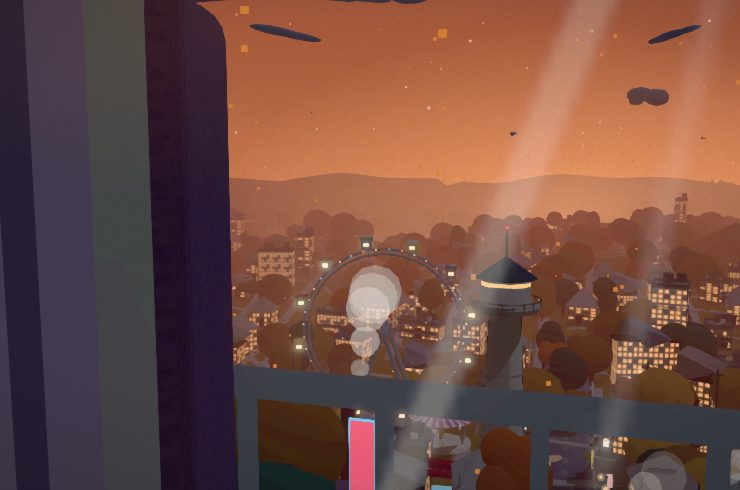
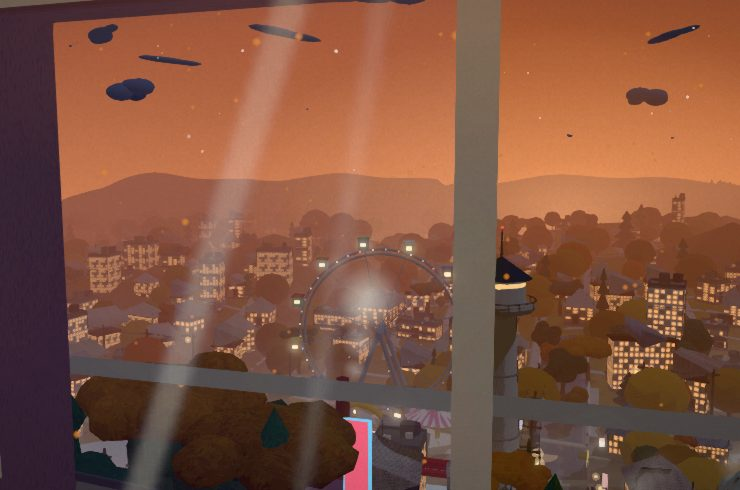
便15 群E: 起動時の情景で季節を先に（D1）・角部屋を回したら最初の向きを決め直す（D4・V32・S53）・錠を手すりと重ならない高さへ（V10・V17）・降る物を丸い粒へ（W2）・雪の茅葺に雪（V20）・左右の長押を壁の内側の間に（V25）・朝はビルの窓を灯さない（V29）・雨の日は太陽を雲の奥へ（V39）・海辺の夕日を桟から外す（V58）・かもめが桟にかからない（V61）・山あいの円盤に筋を重ねない（V63）・入口の四辺の縁（V79）・角部屋のサムネを撮り直し撮り直しの台本を1本に（V70・W7）・README と SPEC（S55）
Claude-Session: https://claude.ai/code/session_018BTSXAPzxNmSbLEgZTJxEv

diff --git a/src/engine/town3dViewer.js b/src/engine/town3dViewer.js
@@ -362,6 +362,7 @@ export async function mountTown3d(parent, opts = {}) {
   const pal = opts.palette || {}
   const season = opts.season || 'summer' // 季節で地面・木の色を替える
   const weather = opts.weather || null    // 'snow' | 'petals' | 'leaves' | null（降るもの）
+  const MORNING = opts.time === 'morning' // 情景の時間帯が朝（便15 V29: 朝は窓の灯りを消す。空の明るさだけでは朝の淡い空が夕と同じに読まれた）
   const kind = opts.kind || 'town'        // 'town'（坂の街）| 'yato'（谷戸＝棚田と茅葺の屋敷）
   const bound = kind === 'yato' ? FLY.yatoBound : FLY.bound // 飛べる箱は情景ごと（谷戸は谷筋に沿う狭め）
   const onEvent = typeof opts.onEvent === 'function' ? opts.onEvent : () => {} // 定期イベント発火を外へ伝える（音の結線）
@@ -529,8 +530,9 @@ export async function mountTown3d(parent, opts = {}) {
     sgr.addColorStop(0.47, 'rgba(176,198,255,0.10)'); sgr.addColorStop(0.53, 'rgba(188,236,200,0.11)') // 彩雲リング（青→緑）
     sgr.addColorStop(0.59, 'rgba(255,226,168,0.12)'); sgr.addColorStop(0.65, 'rgba(255,184,172,0.10)') // 黄→赤
     sgr.addColorStop(0.76, 'rgba(255,184,172,0)'); sgx.fillStyle = sgr; sgx.fillRect(0, 0, 128, 128)
-    sunGlow = new THREE.Sprite(new THREE.SpriteMaterial({ map: new THREE.CanvasTexture(scv), transparent: true, opacity: weather === 'snow' ? 0.2 : 0.92, depthWrite: false, fog: false })) // 雪は窓ごしに白飛びしやすい＝光輪を弱め小さく（暖かいにじみは残す）
-    { const sgS = weather === 'snow' ? 124 : 155; sunGlow.scale.set(sgS, sgS, 1); scene.add(sunGlow) }
+    const overcast = weather === 'snow' || weather === 'rain' // 便15 V39: 雨の日も雪と同じく、太陽は雲の奥（光輪を弱く小さく・雨は円盤を出さない＝下）
+    sunGlow = new THREE.Sprite(new THREE.SpriteMaterial({ map: new THREE.CanvasTexture(scv), transparent: true, opacity: overcast ? 0.2 : 0.92, depthWrite: false, fog: false })) // 雪は窓ごしに白飛びしやすい＝光輪を弱め小さく（暖かいにじみは残す）
+    { const sgS = overcast ? 124 : 155; sunGlow.scale.set(sgS, sgS, 1); scene.add(sunGlow) }
     // 太陽の本体（円盤）は duskAmt 定義後（L667付近）でまとめて作る＝TDZ回避。下の「太陽の本体」ブロック参照。
     // 一番星のスプライト（昼ドリフトが深まると上空にひとつ灯る）。夜情景では既存の星空があるので作らない。
     if (!isNight) { const stc = document.createElement('canvas'); stc.width = stc.height = 32; const stx = stc.getContext('2d'); const stg = stx.createRadialGradient(16, 16, 0.4, 16, 16, 10); stg.addColorStop(0, 'rgba(255,255,250,1)'); stg.addColorStop(0.3, 'rgba(232,240,255,0.45)'); stg.addColorStop(1, 'rgba(232,240,255,0)'); stx.fillStyle = stg; stx.fillRect(0, 0, 32, 32)
@@ -693,6 +695,7 @@ export async function mountTown3d(parent, opts = {}) {
   // 灯り度（空の明るさで決める。明るい昼=窓は灯らない／夕暮れ=ほのか／夜=煌々と）
   const skyBright = (skyTop.r + skyTop.g + skyTop.b) / 3
   const duskAmt = Math.min(1, Math.max(0, (0.56 - skyBright) * 2.4))
+  const winLitDusk = duskAmt > 0.25 && !MORNING // 夕方の窓の灯り（便15 V29: 朝は灯さない＝便1 の「昼は窓の灯りを消す」と同じ扱い）
   // 太陽の本体＝くっきりした円盤（空の主役）。加算で芯が明るく、Bloomで発光する。夕は橙金に大きく（地平に近い夕陽）。
   // 光輪 sunGlow は上で作成済み。ここで夕の暖色・拡大を足し、本体の円盤を中心に重ねる（duskAmt 定義後＝TDZ回避）。
   if (!isNight && sunGlow) {
@@ -703,6 +706,7 @@ export async function mountTown3d(parent, opts = {}) {
     const diskCol = new THREE.Color(0xfffaf0).lerp(new THREE.Color(0xffaa55), duskAmt) // 夕は橙金へ
     sunDisk = new THREE.Sprite(new THREE.SpriteMaterial({ map: new THREE.CanvasTexture(dcv), color: diskCol, transparent: true, opacity: weather === 'snow' ? 0.28 : 0.95, depthWrite: false, fog: false, blending: THREE.AdditiveBlending })) // 雪の日は雲の奥の淡い円盤（白飛びさせない・V10）
     const dS = (weather === 'snow' ? 15 : 19) + duskAmt * 17; sunDisk.scale.set(dS, dS, 1); scene.add(sunDisk)
+    if (weather === 'rain') sunDisk.visible = false // 便15 V39: 雨の日は太陽の円盤を出さない（雨の筋と晴れの太陽が同時に出ていた）
   }
   const rng = (seed) => { let s = seed * 9301 + 49297; const f = () => { s = (s * 9301 + 49297) % 233280; return s / 233280 }; f.state = () => s; return f }
   let R = rng(7) // 町の乱数。消費の順番が町の配置を決める（家・木・人）。一時的な差し替えは下の withLocalR だけで行う
@@ -1239,7 +1243,7 @@ export async function mountTown3d(parent, opts = {}) {
     for (let i = 0; i <= 5; i++) { g.beginPath(); g.moveTo(wx, wy + wh * i / 5); g.lineTo(wx + ww, wy + wh * i / 5); g.stroke() }
     const t = new THREE.CanvasTexture(c); t.magFilter = THREE.LinearFilter; t.wrapS = t.wrapT = THREE.RepeatWrapping; machiyaGlowTex = t; return t }
   // 町家の壁材（夕夜は障子が行灯で灯る＝城下町の夜が生きる）。
-  const machiyaMat = (baseHex) => { const m = facadeMat('machiya', baseHex); if (duskAmt > 0.25) { m.emissiveMap = getMachiyaGlow(); m.emissive = new THREE.Color(isNight ? 0xffb45a : 0xffc684); m.emissiveIntensity = 0.22 + duskAmt * (isNight ? 0.6 : 0.34) } return m }
+  const machiyaMat = (baseHex) => { const m = facadeMat('machiya', baseHex); if (winLitDusk) { m.emissiveMap = getMachiyaGlow(); m.emissive = new THREE.Color(isNight ? 0xffb45a : 0xffc684); m.emissiveIntensity = 0.22 + duskAmt * (isNight ? 0.6 : 0.34) } return m }
   // 侍屋敷の連子窓の夜の灯り（格子の奥の行灯）。連子の面を暖色＋縦格子を影で抜く emissiveMap。R()不使用。
   let samaGlowTex = null
   const getSamaGlow = () => { if (samaGlowTex) return samaGlowTex
@@ -1249,7 +1253,7 @@ export async function mountTown3d(parent, opts = {}) {
     g.strokeStyle = 'rgba(40,26,10,0.7)'; g.lineWidth = 2.4
     for (let i = 0; i <= 8; i++) { g.beginPath(); g.moveTo(30 + 68 * i / 8, 28); g.lineTo(30 + 68 * i / 8, 68); g.stroke() } // 縦格子の影
     const t = new THREE.CanvasTexture(c); t.magFilter = THREE.LinearFilter; t.wrapS = t.wrapT = THREE.RepeatWrapping; samaGlowTex = t; return t }
-  const samaMat = (baseHex) => { const m = facadeMat('sama', baseHex); if (duskAmt > 0.25) { m.emissiveMap = getSamaGlow(); m.emissive = new THREE.Color(isNight ? 0xffac52 : 0xffc079); m.emissiveIntensity = 0.2 + duskAmt * (isNight ? 0.56 : 0.3) } return m }
+  const samaMat = (baseHex) => { const m = facadeMat('sama', baseHex); if (winLitDusk) { m.emissiveMap = getSamaGlow(); m.emissive = new THREE.Color(isNight ? 0xffac52 : 0xffc079); m.emissiveIntensity = 0.2 + duskAmt * (isNight ? 0.56 : 0.3) } return m }
   // 大正の洋風窓の夜の灯り（上げ下げ窓＋1階の店の硝子が灯る＝ハイカラな港町の夜景）。R()不使用。
   let yofuGlowTex = null
   const getYofuGlow = () => { if (yofuGlowTex) return yofuGlowTex
@@ -1934,7 +1938,7 @@ export async function mountTown3d(parent, opts = {}) {
     if (duskAmt > 0.12) { // 夕方は窓が灯る（昼と同じ窓割りの灯り＝wviで揃える）
       R() // 旧来ここで窓種をR()で選んでいた＝乱数列を保ち街の生成（建物分布/描画コール）を不変に保つ
       const e = winEmis[wvi].clone(); e.repeat.set(rep, repV); e.needsUpdate = true
-      wm.emissiveMap = e; wm.emissive = new THREE.Color(isNight ? 0xffbe82 : 0xffcaa0); wm.emissiveIntensity = (isNight || duskAmt > 0.25) ? 0.3 + duskAmt * (isNight ? 0.95 : 0.62) : 0 // 昼は灯さない（はっきりした夕方と夜だけ。昼の情景の夕方の度合いは約0.15。以前は昼も 0.3 で、ビルも家も窓が全部だいだいに灯っていた・V15） // 夜は窓灯りを強めて瞬かせる（夕は控えめで貼り絵感を防ぐ）
+      wm.emissiveMap = e; wm.emissive = new THREE.Color(isNight ? 0xffbe82 : 0xffcaa0); wm.emissiveIntensity = (isNight || winLitDusk) ? 0.3 + duskAmt * (isNight ? 0.95 : 0.62) : 0 // 昼は灯さない（はっきりした夕方と夜だけ。昼の情景の夕方の度合いは約0.15。以前は昼も 0.3 で、ビルも家も窓が全部だいだいに灯っていた・V15） // 夜は窓灯りを強めて瞬かせる（夕は控えめで貼り絵感を防ぐ）
     }
     // 近景の建物だけ角を面取りして「低ポリの箱」の鋭い角を脱す（奥は霞むので箱のまま＝軽量）。
     const near = z > -12
@@ -3084,7 +3088,7 @@ export async function mountTown3d(parent, opts = {}) {
     const nm = winMapBase.clone(); nm.repeat.set(rep, rep * 1.5); nm.needsUpdate = true; nwMat.map = nm
     if (duskAmt > 0.12) { // 夕/夜は隣室の窓も灯る（窓割りはwinMapBase=種類0に揃える）
       const ne = winEmis[0].clone(); ne.repeat.set(rep, rep * 1.5); ne.needsUpdate = true
-      nwMat.emissiveMap = ne; nwMat.emissive = new THREE.Color(0xffcaa0); nwMat.emissiveIntensity = (isNight || duskAmt > 0.25) ? 0.3 + duskAmt * 0.6 : 0 // 昼は灯さない（V15）
+      nwMat.emissiveMap = ne; nwMat.emissive = new THREE.Color(0xffcaa0); nwMat.emissiveIntensity = (isNight || winLitDusk) ? 0.3 + duskAmt * 0.6 : 0 // 昼は灯さない（V15）
     }
     const wall = new THREE.Mesh(new THREE.BoxGeometry(3.5, 58, 44), nwMat)
     wall.position.set(15.5, 18, 9); wall.castShadow = true; wall.receiveShadow = true; scene.add(wall)
@@ -4665,7 +4669,7 @@ export async function mountTown3d(parent, opts = {}) {
         // 港町の家々（看板建築＝和洋折衷。煉瓦/クリームの壁＋陸屋根/寄棟。格子の町割り。メッシュ統合で軽く）
         // 壁色のパレット（大正ハイカラ＝クリーム/淡い若草/淡い黄土/淡い青鼠）。建物ごとに振り分けて単調なクリーム一色を脱す。
         const tWallPal = season === 'winter' ? [0xd8d2c4, 0xd2d6cc, 0xdcd4c0, 0xcdd2d4] : [0xcfc3ab, 0xb9c0a6, 0xd6c49a, 0xb7c1c4]
-        const tWallMats = tWallPal.map((c) => { const m = facadeMat('yofu', c); m.vertexColors = true; if (duskAmt > 0.25) { m.emissiveMap = getYofuGlow(); m.emissive = new THREE.Color(isNight ? 0xffc878 : 0xffd49a); m.emissiveIntensity = 0.2 + duskAmt * (isNight ? 0.58 : 0.32) } return m }) // 接地AO（頂点色）＋夕夜は洋風窓が灯る
+        const tWallMats = tWallPal.map((c) => { const m = facadeMat('yofu', c); m.vertexColors = true; if (winLitDusk) { m.emissiveMap = getYofuGlow(); m.emissive = new THREE.Color(isNight ? 0xffc878 : 0xffd49a); m.emissiveIntensity = 0.2 + duskAmt * (isNight ? 0.58 : 0.32) } return m }) // 接地AO（頂点色）＋夕夜は洋風窓が灯る
         // 屋根色のパレット（瓦の赤茶/いぶし茶/スレート青鼠）。俯瞰で一色だった屋根に多様さを。
         const tRoofPal = isNight ? [0x4a3832, 0x423a32, 0x3e444a] : [0x9a5642, 0x6e5a48, 0x5d666e]
         const tRoofMats = tRoofPal.map((c, i) => i < 2 ? tileMat(c, 2, 2, true) : mottleMat(c, 150, 0.12, [1.8, 1.8])) // 瓦色(赤茶/いぶし)は瓦テクスチャ＝見上げで瓦の筋が出る／青鼠スレートは平滑なまま
@@ -5425,7 +5429,7 @@ export async function mountTown3d(parent, opts = {}) {
       for (let i = 0; i < 120; i++) { const col = tb.clone().offsetHSL((R() - 0.5) * 0.02, (R() - 0.5) * 0.06, (R() - 0.5) * 0.26); tcx.strokeStyle = '#' + col.getHexString(); tcx.lineWidth = 0.5 + R() * 1.3; tcx.globalAlpha = 0.42; const lx = R() * 64; tcx.beginPath(); tcx.moveTo(lx, 0); tcx.lineTo(lx + (R() - 0.5) * 4, 64); tcx.stroke() }
       tcx.globalAlpha = 1
       const thatchTex = new THREE.CanvasTexture(tc); thatchTex.wrapS = thatchTex.wrapT = THREE.RepeatWrapping; thatchTex.repeat.set(3, 2)
-      const thatchMat = new THREE.MeshLambertMaterial({ color: 0xffffff, map: thatchTex, vertexColors: true })
+      const thatchMat = snowify(new THREE.MeshLambertMaterial({ color: 0xffffff, map: thatchTex, vertexColors: true })) // 便15 V20: 雪の日は茅葺の上面にも雪が載る（周りが雪なのに屋根だけ茶色のままだった）
       // 茅葺の寄棟屋根: 水平の大棟＋四方の勾配＋深い軒。四角錐の「段ボール箱」を本物の寄棟へ作り直す（評価指摘）。
       const roof = new THREE.Mesh(makeHipRoof(10.8, 8.2, 5.6, 3.5), thatchMat)
       roof.position.y = 2.7; roof.castShadow = true; roof.receiveShadow = true; g.add(roof) // 軒を壁の上端(3.2)より下げ＝深い軒の量感
@@ -7340,6 +7344,10 @@ export async function mountTown3d(parent, opts = {}) {
   } // ← 車・住民（街のみ）ここまで
 
   // ── 降るもの（雪／桜の花びら）。季節・天気で空に舞う粒子。 ──
+  // 便15 W2（V14・V21）: 降る物の粒は、ふちのぼけた丸い絵で描く（絵の無い点は四角い板になり、ドット絵の雪や花びらに見えた）。
+  // 縁がぼける分だけ見かけが小さくなるので、大きさを 1.3 倍にして前の見え方に寄せる
+  const fallDot = (() => { const c = document.createElement('canvas'); c.width = c.height = 32; const g = c.getContext('2d'); const gr = g.createRadialGradient(16, 16, 0, 16, 16, 16); gr.addColorStop(0, 'rgba(255,255,255,1)'); gr.addColorStop(0.5, 'rgba(255,255,255,0.8)'); gr.addColorStop(1, 'rgba(255,255,255,0)'); g.fillStyle = gr; g.fillRect(0, 0, 32, 32); return new THREE.CanvasTexture(c) })()
+  const FALL_K = 1.3
   let weatherPts = null
   if (weather === 'snow' || weather === 'petals' || weather === 'leaves') {
     const N = weather === 'snow' ? 700 : weather === 'petals' ? 420 : 360 // 軽やかでは半分だけ描く（下の lightDraw）
@@ -7357,8 +7365,9 @@ export async function mountTown3d(parent, opts = {}) {
     const geo = new THREE.BufferGeometry()
     geo.setAttribute('position', new THREE.BufferAttribute(pos, 3)); lightDraw(geo, N >> 1)
     const mat = new THREE.PointsMaterial({
+      map: fallDot,
       color: weather === 'snow' ? 0xfdfdff : weather === 'petals' ? 0xf2bcd0 : 0xcf7e38, // 落ち葉=暖色の橙
-      size: weather === 'snow' ? 0.5 : weather === 'petals' ? 0.85 : 0.95,
+      size: (weather === 'snow' ? 0.5 : weather === 'petals' ? 0.85 : 0.95) * FALL_K,
       transparent: true, opacity: weather === 'snow' ? 0.92 : 0.85,
       sizeAttenuation: true, fog: true, depthWrite: false,
     })
@@ -7376,7 +7385,7 @@ export async function mountTown3d(parent, opts = {}) {
     const pos = new Float32Array(N * 3), spd = new Float32Array(N), phs = new Float32Array(N)
     for (let i = 0; i < N; i++) { pos[i * 3] = bx + (R() - 0.5) * R0 * 2; pos[i * 3 + 1] = floor + R() * 20; pos[i * 3 + 2] = bz + (R() - 0.5) * R0 * 2; spd[i] = 0.7 + R() * 0.9; phs[i] = R() * 6.28 }
     const geo = new THREE.BufferGeometry(); geo.setAttribute('position', new THREE.BufferAttribute(pos, 3)); lightDraw(geo, 70)
-    const mat = new THREE.PointsMaterial({ color: season === 'spring' ? 0xf2bcd0 : 0xd07e2a, size: season === 'spring' ? 0.8 : 0.92, transparent: true, opacity: 0.92, sizeAttenuation: true, fog: true, depthWrite: false })
+    const mat = new THREE.PointsMaterial({ map: fallDot, color: season === 'spring' ? 0xf2bcd0 : 0xd07e2a, size: (season === 'spring' ? 0.8 : 0.92) * FALL_K, transparent: true, opacity: 0.92, sizeAttenuation: true, fog: true, depthWrite: false })
     const pts = new THREE.Points(geo, mat); pts.frustumCulled = false; scene.add(pts)
     seasonFall = { pts, pos, spd, phs, N, bx, bz, R0, floor, swirl: season === 'spring' ? 2.2 : 2.8 }
     // 歩く人に追従する近景の層（カメラ周りの箱で循環。降り立つとどこでも花びら/落ち葉が舞う＝散歩の没入）。
@@ -7384,7 +7393,7 @@ export async function mountTown3d(parent, opts = {}) {
     const npos = new Float32Array(nN * 3), nspd = new Float32Array(nN), nphs = new Float32Array(nN)
     for (let i = 0; i < nN; i++) { npos[i * 3] = (R() - 0.5) * nHX * 2; npos[i * 3 + 1] = R() * nHY; npos[i * 3 + 2] = (R() - 0.5) * nHX * 2; nspd[i] = 0.55 + R() * 0.8; nphs[i] = R() * 6.28 }
     const ngeo = new THREE.BufferGeometry(); ngeo.setAttribute('position', new THREE.BufferAttribute(npos, 3)); lightDraw(ngeo, 34)
-    const nmat = new THREE.PointsMaterial({ color: season === 'spring' ? 0xf4c2d6 : 0xd8813a, size: season === 'spring' ? 0.5 : 0.58, transparent: true, opacity: 0, sizeAttenuation: true, fog: true, depthWrite: false })
+    const nmat = new THREE.PointsMaterial({ map: fallDot, color: season === 'spring' ? 0xf4c2d6 : 0xd8813a, size: (season === 'spring' ? 0.5 : 0.58) * FALL_K, transparent: true, opacity: 0, sizeAttenuation: true, fog: true, depthWrite: false })
     const npts = new THREE.Points(ngeo, nmat); npts.frustumCulled = false; npts.visible = false; scene.add(npts)
     nearFall = { pts: npts, mat: nmat, pos: npos, spd: nspd, phs: nphs, N: nN, HX: nHX, HY: nHY, swirl: season === 'spring' ? 2.4 : 3.0 }
   }
@@ -7669,7 +7678,7 @@ export async function mountTown3d(parent, opts = {}) {
     box(owW + 0.2, 0.1, 0.1, 0, oT, 0.25, alMat); box(owW + 0.2, 0.1, 0.1, 0, oB + 0.06, 0.25, alMat)             // 上下の横桟（壁より手前・窓台の上）
     box(0.1, owH + 0.2, 0.1, -owW / 2 - 0.05, WINCY, 0.29, alMat); box(0.1, owH + 0.2, 0.1, owW / 2 + 0.05, WINCY, 0.29, alMat) // 左右の縦桟（さらに手前）
     box(0.06, owH, 0.06, 0, WINCY, 0.32, alMat) // 中央の召し合わせ（最前）
-    const winLock = box(0.14, 0.06, 0.08, 0.1, WINCY - 0.06, 0.31, alMat) // クレセント錠（便13 #2=2: 窓をあけると右の障子と一緒にすべる＝毎こまの所で動かす）
+    const winLock = box(0.14, 0.06, 0.08, 0.1, WINCY - 0.18, 0.31, alMat) // 便15 V10・V17: 錠を 0.12 下げた（外の手すりと画面で同じ高さに重なり、手すりが錠の所で一段太く折れて見えた）。クレセント錠（便13 #2=2: 窓をあけると右の障子と一緒にすべる＝毎こまの所で動かす）
     // 引き違いのガラス障子（2枚）。閉=開口を覆う／窓をあけると右の障子が左へすべって右半分が開く（実際の窓の開閉）。
     // ガラスは“ごく淡い映り込み”だけ（景色を曇らせない）。斜めの細い光の筋を1本＋極薄の地色。端はパネルを枠の内側に隠す。
     const glassTex = cv(64, 64, (x) => { x.fillStyle = 'rgba(210,222,234,0.02)'; x.fillRect(0, 0, 64, 64); x.strokeStyle = 'rgba(255,255,255,0.12)'; x.lineWidth = 3.5; x.beginPath(); x.moveTo(12, 64); x.lineTo(46, 0); x.stroke(); x.strokeStyle = 'rgba(255,255,255,0.06)'; x.lineWidth = 2; x.beginPath(); x.moveTo(40, 64); x.lineTo(56, 0); x.stroke() })
@@ -7751,7 +7760,7 @@ export async function mountTown3d(parent, opts = {}) {
     for (const [px, pz] of [[-SX + 0.11, 0.22], [SX - 0.11, 0.22], [-SX + 0.11, BZ - 0.22], [SX - 0.11, BZ - 0.22]]) box(0.17, WT - FY, 0.17, px, (WT + FY) / 2, pz, postMat) // 四隅の柱
     const ngY = oT + 0.5 // 長押の高さ（窓・鴨居の上）
     box(RW, 0.1, 0.06, 0, ngY, 0.05, postMat); box(RW, 0.1, 0.06, 0, ngY, BZ - 0.05, postMat) // 前後の長押
-    box(0.06, 0.1, RD, -SX + 0.04, ngY, BZ / 2, postMat); box(0.06, 0.1, RD, SX - 0.04, ngY, BZ / 2, postMat) // 左右の長押
+    box(0.06, 0.1, BZ - 0.3, -SX + 0.04, ngY, BZ / 2, postMat); box(0.06, 0.1, BZ - 0.3, SX - 0.04, ngY, BZ / 2, postMat) // 左右の長押（便15 V25: 前後の壁の内側〈z 0.15〜BZ-0.15〉の間だけ。部屋の奥行き RD で作ると前の壁を越えて窓の外へ 0.6 突き出し、角部屋の左の窓の上で柱を越えて見えた）
     // ── 右壁＝居間の顔: ブラウン管テレビ＋木の台＋柱時計＋カレンダー ──
     box(1.5, 0.66, 0.7, SX - 0.42, FY + 0.33, 3.0, woodMat)        // テレビ台
     box(1.04, 0.78, 0.66, SX - 0.5, FY + 1.05, 3.0, tvMat)         // テレビ筐体
@@ -8165,13 +8174,17 @@ export async function mountTown3d(parent, opts = {}) {
   }
   // 便13 #3=1: 角部屋は、開いた最初の向きを左の角へ振る（前は北寺尾の窓辺と同じ正面で、同じ部屋に見えた＝V58）。
   //   横長（PC・iPad の横）は二つの窓が角で並ぶ向き、縦長（iPhone・iPad の縦）は左の窓が正面に来る向き
-  if (kind === 'corner') active.yaw = active.yawTarget = W / H >= 1 ? -0.6 : -1.12
+  const cornerYaw0 = (w, h) => (w / h >= 1 ? -0.6 : -1.12)
+  let cornerYawSet = kind === 'corner' ? cornerYaw0(W, H) : null // 便15 D4: 最後に決めた最初の向き（見回す前に画面を回したら、その向きの最初の向きに決め直す）
+  if (kind === 'corner') active.yaw = active.yawTarget = cornerYawSet
 
   // 解像度/サイズを変える時は必ずここを通す＝camera.aspect も同時に更新（更新漏れが「横に伸びる」バグの元）。
   function applySize() {
     const w = stage.clientWidth, h = stage.clientHeight
     if (!w || !h) return
     if (w !== lastStageW || h !== lastStageH) { // 画面の大きさが変わったら（回転など）総画素数の上限を引き直す
+      // 便15 D4・V32・S53: 角部屋を縦で開いてから横へ回すと、縦の向きのまま（左の窓が真ん中）だった。窓辺にいて、まだ見回していない（目標が最初の向きのまま）なら、回した後の最初の向きに決め直す
+      if (cornerYawSet !== null && active && active.mode === 'window' && Math.abs(active.yawTarget - cornerYawSet) < 1e-6) { const y = cornerYaw0(w, h); if (y !== cornerYawSet) { cornerYawSet = y; active.yaw = active.yawTarget = y } }
       plan = qualityPlan('3d', curQual, { dpr: window.devicePixelRatio || 1, cssW: w, cssH: h }); qCap = plan.cap; prFloor = plan.floor
       curPR = Math.max(prFloor, Math.min(curPR, prFly ? plan.fly : qCap))
     }
@@ -8769,7 +8782,7 @@ export async function mountTown3d(parent, opts = {}) {
     const geo = new THREE.BufferGeometry(), pos = new Float32Array(N * 3), seed = new Array(N)
     for (let i = 0; i < N; i++) { const lx = (R() - 0.5) * 72, ly = 2 + R() * 26, lz = -4 - R() * 60; pos[i * 3] = lx; pos[i * 3 + 1] = ly; pos[i * 3 + 2] = lz; seed[i] = { lx, ly, lz, ph: R() * 6.28, sp: 0.7 + R() * 0.8, sw: 0.6 + R() * 1.2 } }
     geo.setAttribute('position', new THREE.BufferAttribute(pos, 3))
-    const mat = new THREE.PointsMaterial({ color: cfg.col, size: cfg.sz, transparent: true, opacity: 0, depthWrite: false, fog: true, sizeAttenuation: true })
+    const mat = new THREE.PointsMaterial({ map: fallDot.clone(), color: cfg.col, size: cfg.sz * FALL_K, transparent: true, opacity: 0, depthWrite: false, fog: true, sizeAttenuation: true }) // 便15 W2: 丸い粒（出来事の片付けで絵を破棄するので写しを渡す）
     const pts = new THREE.Points(geo, mat); pts.frustumCulled = false; pts.renderOrder = 2; scene.add(pts)
     const dur = 26, wind = (R() < 0.5 ? 1 : -1) * (2.2 + R() * 1.0), peak = season === 'winter' ? 0.85 : 0.78
     addFx({

diff --git a/src/shaders/birds.js b/src/shaders/birds.js
@@ -27,4 +27,27 @@ export const BIRDS_GLSL = /* glsl */ `
     }
     return col;
   }
+  // 便15 V61: 窓の縦の桟（q の x が gapX）にかからない鳥。桟の手前で消え、過ぎてから現れる（gapHalf＝桟の半分の幅＋翼の幅・q の x の単位）
+  vec3 flyingBirdsAvoid(vec3 col, vec2 q, float t, float mo, float gapX, float gapHalf) {
+    for (int i = 0; i < 3; i++) {
+      float fi = float(i);
+      float spd = 0.017 * (1.0 + 0.22 * fi);
+      float prog = fract(t * spd * mo + fi * 0.37);
+      float bx = prog * 3.2 - 1.6;
+      float by = 0.75 - fi * 0.035 - sin(prog * 3.14159) * 0.05 + sin(t * 0.6 * mo + fi * 1.3) * 0.006;
+      vec2 d = q - vec2(bx, by);
+      float ad = abs(d.x);
+      float glide = 0.5 + 0.5 * sin(t * 0.25 * mo + fi * 2.0);
+      float flap = sin(t * (8.0 + fi * 1.5) * mo + fi * 2.0) * mix(0.22, 0.8, glide);
+      float span = 0.026;
+      float wingY = ad * flap - (ad * ad / span) * 0.55;
+      float wing = smoothstep(0.0055, 0.0, abs(d.y - wingY)) * smoothstep(span, span * 0.8, ad);
+      float body = smoothstep(0.0075, 0.0, length(d * vec2(1.0, 1.8)));
+      float bird = clamp(max(wing, body), 0.0, 1.0);
+      float vis = smoothstep(0.0, 0.06, prog) * smoothstep(1.0, 0.92, prog);
+      vis *= smoothstep(gapHalf, gapHalf + 0.03, abs(bx - gapX)); // 桟の手前で消える
+      col = mix(col, col * 0.5, bird * 0.55 * vis);
+    }
+    return col;
+  }
 `

diff --git a/src/shaders/windowSea.js b/src/shaders/windowSea.js
@@ -66,7 +66,7 @@ const FRAGMENT_BODY = /* glsl */ `
     vec2 vp = vec2(p.x, p.y - pitch + curve);
 
     float horizon = 0.60; // 窓の横桟（0.52）より上＝夕日の円盤が桟の裏に隠れない（以前は 0.52 で桟と重なっていた・V33）
-    float sunAz = -0.05;                  // 世界に固定した夕陽の方位
+    float sunAz = -0.24 * min(asp, 1.0);  // 世界に固定した夕陽の方位（便15 V58: 縦の桟〈画面の真ん中〉から外し、窓の左の枠の内に置く。以前の -0.05 は PC で円盤が桟の左に隠れた）
     float sunScreenX = sunAz - yaw * 0.55; // 見回すと夕陽も視界の中を移動する
 
     // ── 空（夕暮れ・水平線に沈む夕陽・層雲・地平の霞） ──
@@ -260,7 +260,8 @@ const FRAGMENT_BODY = /* glsl */ `
 
 
     // 海鳥（はばたきながら弧を描いて海の空を渡る）
-    col = flyingBirds(col, vec2(ax + yaw * 0.5, vp.y), t, 1.0);
+    // 便15 V61: かもめは縦の桟（画面の真ん中）の手前で消え、過ぎてから現れる（桟にかかって半分に切れて見えた）
+    col = flyingBirdsAvoid(col, vec2(ax + yaw * 0.5, vp.y), t, 1.0, yaw * 0.5, 0.011 * asp / max(asp, 1.0) + 0.03);
 
     // ガラス現象
     col = applyGlass(col, p, t, uGlass);

diff --git a/src/data/scenes/index.js b/src/data/scenes/index.js
@@ -115,9 +115,10 @@ export function pickNowScene(date = new Date()) {
     const dayIdx = Math.floor(Date.UTC(date.getFullYear(), date.getMonth(), date.getDate()) / 86400000)
     return fit[dayIdx % fit.length]
   }
-  // 季節も時間帯も合う公開情景が無い時間帯は、最も近い一枚（従来どおりの最高スコア）。
+  // 季節も時間帯も合う公開情景が無い時間帯は、最も近い一枚。季節が合う情景があれば、旗艦の加点より季節を先に見る
+  // （便15 D1: 以前は旗艦の窓の加点 +3 が季節の一致 +2 より重く、冬や秋の朝に夏の「梅雨の朝」、冬と春の昼に夏の坂の街が出た）
   let best = DEFAULT_SCENE
   let bestScore = -1
-  for (const s of candidates) { const v = score(s); if (v > bestScore) { bestScore = v; best = s } }
+  for (const s of candidates) { const v = score(s) + (s.axes.season === season ? 10 : 0); if (v > bestScore) { bestScore = v; best = s } }
   return best
 }

diff --git a/src/main.js b/src/main.js
@@ -162,6 +162,7 @@ function start() {
         await (await loadTown3d()).mountTown3d(document.body, {
           palette: (next.palette && next.palette.early) || null,
           season: (next.axes && next.axes.season) || 'summer',
+          time: (next.axes && next.axes.time) || null, // 時間帯（朝は窓の灯りを消す・便15 V29）
           weather: next.town3dWeather || null, // 'snow' | 'petals' | 'leaves'（降るもの）
           kind: next.town3dKind || 'town', // 'town'（坂の街）| 'yato'（谷戸）
           mist: mistFor(next), // 低く溜まる霧の濃さ（時間帯・天気・場所の既定＋情景の mist の上書き）

diff --git a/src/shaders/windowMountains.js b/src/shaders/windowMountains.js
@@ -184,6 +184,7 @@ const FRAGMENT_BODY = /* glsl */ `
     col = mix(col, vec3(1.0, 0.97, 0.9), smoothstep(0.05, 0.04, sunDist) * 0.7);
     vec2 sd = vec2(ax, vp.y) - sunC;
     float rays = (0.5 + 0.5 * sin(atan(sd.y, sd.x) * 16.0 + uTime * 0.08)) * exp(-length(sd) * 1.3);
+    rays *= smoothstep(0.05, 0.085, length(sd)); // 便15 V63: 円盤の上には光の筋を重ねない（円盤が放射の筋で「割れた皿」に見えた）
     col += uSunGlow * rays * 0.05;
 
     float mistAmt = mix(0.25, 0.7, uIntensity);

diff --git a/src/style.css b/src/style.css
@@ -726,7 +726,8 @@ body.idle .topbar button {
 /* 起動ゲート */
 .gate {
   position: fixed;
-  inset: 0;
+  /* 便15 V79: 背景のぼかし（backdrop-filter）は画面の端で外の明るさを拾い、四辺に明るい細い縁が出た。層を画面の外まで 8px 広げて、縁を画面の外へ出す */
+  inset: -8px;
   z-index: 60; /* UI(topbar/音量)より前面に＝起動前にUIが透けて散らからない静かな入口 */
   pointer-events: auto;
   display: flex;

diff --git a/README.md b/README.md
@@ -9,30 +9,31 @@
 四季 × 天気 × 時間帯 × 環境音を、ただ**眺めて・聴いて・整う**アンビエント・アプリ。
 高台の窓辺から街・海・山・谷戸を見渡し、雨や雪や夕焼け・夜の灯りの中で心をしずめる。
 描画は二本立て：**窓辺のシーンは WebGL（GLSL シェーダー）で「現象」を計算生成**し、
-**立体の街・谷戸は Three.js で構築**して窓辺・上空・地上から眺める。さらに一部のシーンは、
-窓の外に**実写級の画像**を重ねて格上げする（**開発時に一度だけ生成して保存し、本番は保存画像を表示するだけ＝実行時に外部 API は叩かない**）。
+**立体の街・谷戸は Three.js で構築**して窓辺・上空・地上から眺める。さらに雨の窓のシーンは、
+窓の外に**生成した景色の画像**を重ねて格上げする（**開発時に一度だけ生成して保存し、本番は保存画像を表示するだけ＝実行時に外部 API は叩かない**）。
 
 **▶ 体験する: https://yuya591-ux.github.io/seasons/**
 
 ## できること
 
-- **情景を選ぶ**: 四季×天気×時間帯の組み合わせを 30 あまり収録（実写の窓／立体の街と谷戸／角部屋／海辺／山あい／屋上／鶴見・獅子ヶ谷の谷戸…）。
-  時刻に合わせて空の色と光がゆっくり移ろう。「いま」ボタンで今の季節・時刻の窓辺へ（同じ軸に複数あれば日替わりで巡る）。
+- **情景を選ぶ**: 四季×天気×時間帯の組み合わせを 25 収録（北寺尾の坂の街 9／獅子ヶ谷の谷戸 4／高台の角部屋 6＝立体の街の窓辺 19、雨の窓 4、海辺 1、山あい 1）。場所ごとの二階層の一覧から選ぶ。
+  時刻に合わせて空の色と光がゆっくり移ろう。「いま」ボタンで今の季節・時刻の窓辺へ（同じ軸に複数あれば日替わりで巡る。合う時間帯が無い時も、季節が合う窓辺を選ぶ）。
 - **窓辺シリーズ**: 指でなぞって**見回す**／**窓をあける・しめる**（網戸・結露・ガラスの映り込み）／
   さらに**身を乗り出す**と窓枠が消えて景色だけを 180° 見渡す。端末の傾きでも見回せる。
 - **立体の街と谷戸**: Three.js の本物の3Dの街を、窓辺から見下ろすだけでなく、**空を飛んで**滑空し、**着地して歩く**こともできる（季節ごとに四季の街）。
-- **環境音**: 雨・遠雷・ヒグラシ・油蝉・波・カモメ・風・ウグイス・せせらぎ・カラス・虫の音…を情景ごとに重ねてループ。
+- **環境音**: 雨・遠雷・ヒグラシ・波・カモメ・風・ウグイス・せせらぎ・鈴虫・コオロギ・かえる…を情景ごとに重ねてループ。
   継ぎ目レスなループとクロスフェード、ステレオ定位、遠雷のゆらぎ。
 - **おやすみタイマー**: 眺めているうちに、そっと暗転して音が引いて休む（描画と音を止めて電池にも配慮）。触れれば戻る。
 - **オフライン対応（PWA）**: 一度開けば電波が無くても・将来サーバが消えても眺められる。ホーム画面に追加して全画面で。
-- **配慮**: OS の「視差効果を減らす」に追従して揺れを止める。端末性能から初期品質を自動調整し、フレーム落ち時はさらに自動で軽くする。
+- **描き込みの段**: 設定の「こまやか／ふつう／軽やか」。段の中身（描く細かさの上限・影の細かさ・光のにじみ）は端末の倍率と画面の大きさから表で決める（`src/data/quality.js`）。PC など倍率の低い画面の「こまやか」は画面より細かく描いて縮める（最大2倍）。「軽やか」は描く細かさ・影・光のにじみに加え、雨筋や降る粒を描く数を減らす（町の配置は同じ）。
+- **配慮**: OS の「視差効果を減らす」に追従して揺れと時々の出来事を止める。端末性能から初期品質を自動調整し、フレーム落ち時はさらに自動で軽くする。
 
 ## 技術スタック
 
 - **描画（窓辺シーン）**: 生 WebGL のフルスクリーン・シェーダー（GLSL ES 1.00）。後処理に FXAA（輪郭の平滑化）。
   雨粒の屈折・水面・雲影・霧・粒子等を、画像を使わず計算で出す。
 - **描画（立体の街・谷戸）**: **Three.js**（トゥーン／水彩調のセル表現＋静的影＋大気遠近）。窓辺・上空・地上の3視点で眺める。
-- **窓の外の格上げ（任意）**: 一部のシーンは窓の外に**生成画像／実写級の画像**を重ねる。**画像は開発時に一度だけ生成して `public/bg/` に保存し、本番は保存画像を表示するだけ**（実行時に外部 API は叩かない）。出典は `CREDITS.md` と**アプリ内「設定 → この作品について」**に記録。
+- **窓の外の格上げ**: 雨の窓のシーンは窓の外に**生成画像**を重ねる。**画像は開発時に一度だけ生成して `public/bg/` に保存し、本番は保存画像を表示するだけ**（実行時に外部 API は叩かない）。出典は `CREDITS.md` と**アプリ内「設定 → この作品について」**に記録。
 - **音**: Web Audio API。素材はライセンスが明確なフリー素材（CC0 / パブリックドメイン優先）のみ。出典は `CREDITS.md` に全数記録。
 - **ビルド**: Vite ／ **ホスティング**: GitHub Pages（`main` への push で自動デプロイ）。
 - **原則**: **実行時は**外部 API 非依存・課金なし・個人キー非依存（「自分がいなくなっても動く」＝生成は開発時のみ、配信は静的ファイルのみ）。
@@ -54,19 +55,27 @@ npm run preview  # ビルド結果のプレビュー（vite preview の既定 :4
 ```
 
 検証: `node scripts/verify-scene.mjs <情景ID> <出力名>` で任意の情景を撮影（GLSL の実行時コンパイル失敗も検出）。
-`node scripts/verify-fps.mjs <情景ID>` でフレームレート計測。サムネ生成は `node scripts/gen-thumbs.mjs`。
+`node scripts/verify-fps.mjs <情景ID>` でフレームレート計測。情景の一覧のサムネは `node scripts/make-thumbs.mjs [情景ID…]`（情景の作りを変えた時に撮り直す）。
+全公開情景のエラーの確かめ（出典の照らし・舞台の数・町→町の切替・情景パネル経由の切替を含む）は `npm run smoke`、全数の巡回は `npm run walk`。
 
 ## ディレクトリ
 
 ```
 index.html                  エントリ（OGP・PWA メタ）
-public/                     manifest / icons / sw.js（オフライン）/ audio / thumbs
+public/                     manifest / icons / sw.js（オフライン）/ audio / bg（雨の窓の景色）/ thumbs
 src/main.js                 結線（情景データ＋レンダラ＋音＋UI＋おやすみ＋PWA登録）
 src/engine/renderer.js      窓辺シーンの WebGL レンダラ（情景ごとのシェーダー・自動品質・FXAA）
-src/engine/town3dViewer.js  立体の街・谷戸の Three.js ビューア（窓辺／飛行／歩行の3視点）
-src/shaders/                窓辺シーンの GLSL（rainGlass/photoWindow/windowSea/windowMountains/clearSky/…）
+src/engine/town3dViewer.js  立体の街・谷戸・角部屋の Three.js ビューア（窓辺／飛行／歩行の3視点）
+src/engine/heightFog.js     低く溜まる霧（高さで濃さが変わる霧の層）
+src/engine/treeCrown.js     木の樹冠（樹種の形と色の振れ・葉の模様）
+src/engine/surfacePattern.js 屋根・壁・地面・通りの質感の模様（位置から描く）
+src/engine/bgBlur.js        雨の窓の結露越しの景色（読み込み時に1回だけぼかす）
+src/engine/events2d.js      2D の情景の静かな定期イベント（流れ星）
+src/shaders/                窓辺シーンの GLSL（rainGlass/windowSea/windowMountains と、共通の部品 frame/glass/grade/birds/godrays）
 src/data/scenes/            情景データ（色×天気×時間帯×音の「器」）。追加はここに 1 ファイル＋index に 1 行
-src/data/credits.js         アプリ内「この作品について」で見せる素材クレジット（CREDITS.md と一致）
+src/data/quality.js         描き込みの段（こまやか／ふつう／軽やか）の中身の表（2D と町の3Dが同じ表を読む）
+src/data/mist.js            低く溜まる霧の濃さの器（時間帯×天気×場所の既定と情景ごとの上書き）
+src/data/credits.js         アプリ内「この作品について」で見せる素材クレジット（CREDITS.md と一致。scripts/qa-credits.mjs が照らす）
 src/audio/audio.js          環境音のレイヤー再生（継ぎ目レスループ／クロスフェード）
 src/ui/                     最小限の UI（情景選択・設定・見回し・傾き）
 .github/workflows/          GitHub Pages 自動デプロイ

diff --git a/SPEC.md b/SPEC.md
@@ -72,7 +72,7 @@
 v1.0 は「フルスクリーンのシェーダー窓辺シーン」を前提に書かれている。その後、実装は次のように育った。本節で**仕様と実態の差を明文化**する（v1.0 本文は歴史として残す）。
 
 - **描画は二本立てになった**: ①窓辺の現象シェーダー（GLSL。雨ガラス rainGlass・海・山・空 等）に加え、②**Three.js による本物の立体の街・谷戸**（窓辺／空を飛ぶ／着地して歩く の3視点。四季）。よって §1「シェーダーが主役・画像生成に依存しない」は、正確には「**シェーダーと Three.js の立体描画が二本柱。質感は極力計算で出すが、§6 が認める『実写級の背景画像の差し込み（任意）』を一部のシーンで採用している**」。
-- **生成画像の扱い（§6 の格上げ余地を行使）**: 「実写の窓（photoWindow）」「雨ガラスの水彩背景（rainGlass）」では、窓の外に外部AI（無料 Flux）で生成した画像を重ねる。**生成は開発時に一度だけ行い `public/bg/` に保存。本番（配信）は静的画像を表示するだけで、実行時に外部 API は叩かない**（「自分がいなくなっても動く」原則は配信時に保持）。出典は CREDITS.md と**アプリ内「設定 → この作品について」**に記録。
-- **選択UIは『器マトリクス＋準備中』から『キュレーションされたギャラリー』へ**: §4「未実装は準備中表示」ではなく、**実装済み・公開可の情景だけをカードで並べる**方式に変更（季節フィルタ＋「いま」）。完成度が商品基準に達しない情景は `public:false` で公開ギャラリーから外す（＝「出せないものは出さない」）。現在の公開情景は約30。
+- **生成画像の扱い（§6 の格上げ余地を行使）**: 「実写の窓（photoWindow）」「雨ガラスの水彩背景（rainGlass）」では、窓の外に外部AI（無料 Flux）で生成した画像を重ねる（【便15 2026-11-02】~~「実写の窓（photoWindow）」~~は撤去済みで素材も消した。今は雨の窓だけ）。**生成は開発時に一度だけ行い `public/bg/` に保存。本番（配信）は静的画像を表示するだけで、実行時に外部 API は叩かない**（「自分がいなくなっても動く」原則は配信時に保持）。出典は CREDITS.md と**アプリ内「設定 → この作品について」**に記録。
+- **選択UIは『器マトリクス＋準備中』から『キュレーションされたギャラリー』へ**: §4「未実装は準備中表示」ではなく、**実装済み・公開可の情景だけをカードで並べる**方式に変更（季節フィルタ＋「いま」）。完成度が商品基準に達しない情景は `public:false` で公開ギャラリーから外す（＝「出せないものは出さない」）。~~現在の公開情景は約30。~~（【便15 2026-11-02】公開情景は 25。場所ごとの二階層の一覧）
 - **権利処理**: CC BY / CC BY-SA 素材の帰属を**配信物の中で**満たすため、アプリ内クレジット画面と `LICENSE`（独自部分 MIT・第三者素材は各ライセンス継承）を備える。
 - 据え置きの原則: 実行時の外部API非依存・課金なし・CC0優先と全数のライセンス記録・既存作品の非模倣は不変。
